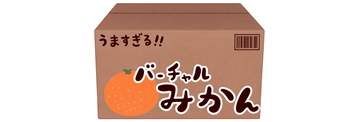
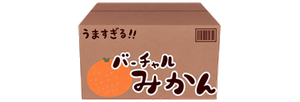
Tune STG mikan TOP button asset

diff --git a/docs/js/main.js b/docs/js/main.js
@@ -318,11 +318,17 @@ function initMobileMenu() {
 function initPageTopToast() {
   const button = $('#page-top-toast');
   if (!button) return;
+  const image = button.querySelector('img[data-src]');
   let ticking = false;
   const threshold = 420;
+  const loadImage = () => {
+    if (!image || image.src) return;
+    image.src = image.dataset.src || '';
+  };
   const update = () => {
     ticking = false;
     const visible = window.scrollY > threshold;
+    if (visible) loadImage();
     button.hidden = !visible;
     button.classList.toggle('is-visible', visible);
     button.setAttribute('aria-hidden', String(!visible));

diff --git a/docs/index.html b/docs/index.html
@@ -268,7 +268,7 @@
 </div>
 
 <button class="page-top-toast" id="page-top-toast" type="button" aria-label="ページ上部へ移動" hidden>
-  <img src="assets/virtual-mikan-box-small.png" alt="" width="180" height="61" loading="lazy" decoding="async">
+  <img data-src="assets/virtual-mikan-box-small.png" alt="" width="150" height="51" loading="lazy" decoding="async">
 </button>
 
 <!-- Dependencies -->

diff --git a/docs/css/theme.css b/docs/css/theme.css
@@ -564,8 +564,8 @@ main.container { padding-top: 28px; padding-bottom: 80px; }
   display: inline-flex;
   align-items: center;
   justify-content: center;
-  width: min(180px, 42vw);
-  min-height: 52px;
+  width: min(150px, 36vw);
+  min-height: 48px;
   padding: 0;
   border: 0;
   background: transparent;
